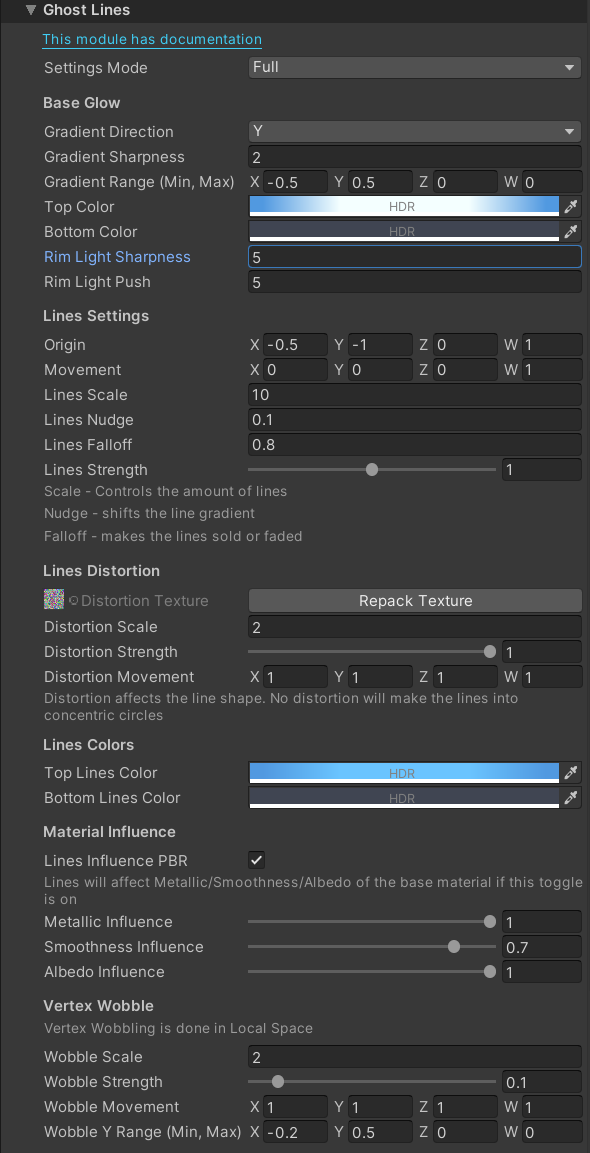
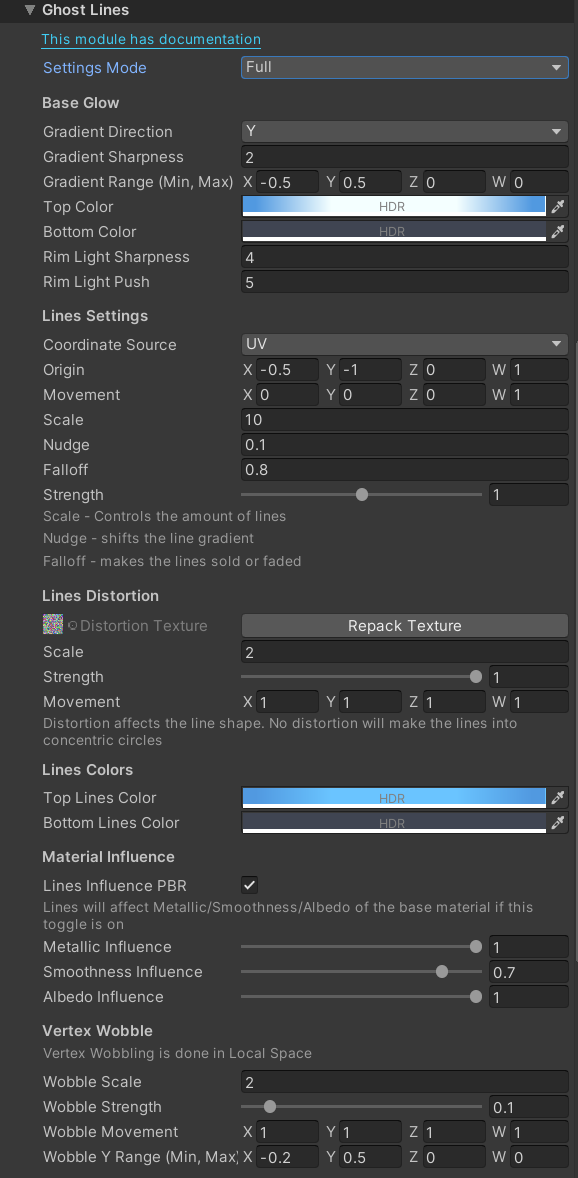
added better ghost lines video + new feature docs

diff --git a/src/pages/docs/vfx/ghost-lines.md b/src/pages/docs/vfx/ghost-lines.md
@@ -7,7 +7,7 @@ Lines overlay on top of a glowing vertex wobble shader. Inspired by Ghostwire: T
 
 ---
 
-{% video url="https://iframe.mediadelivery.net/embed/165/d93de200-d0f3-4817-90e2-1ba2de6b4810?autoplay=true&loop=true&muted=true" title="Ghost Lines shader with default settings" /%}
+{% video url="https://iframe.mediadelivery.net/embed/165/810490e0-f3cf-4e97-b9c1-01e5e15ae6b8?autoplay=true&loop=true&muted=true" title="Ghost Lines shader with default settings" /%}
 
 ![Ghost Lines Inspector](/img/docs/vfx/ghost-lines/ghost-lines-inspector.png "Ghost Lines Inspector")
 
@@ -34,6 +34,9 @@ You can achieve very interesting combinations if you take advantage of the provi
 
 ## Lines Settings
 
+- Coordinate Source: Controls the source of the generation of the lines
+  - Local Position: Uses object local position to generate the lines
+  - UV: Uses UV coordinates to generate the lines. This is useful for skinned meshes that do not have stable local positions
 - Origin: Sets the point from which the lines will originate
 - Movement: Controls the movement speed of the lines across the mesh surface
 - Scale: Controls the number of lines
